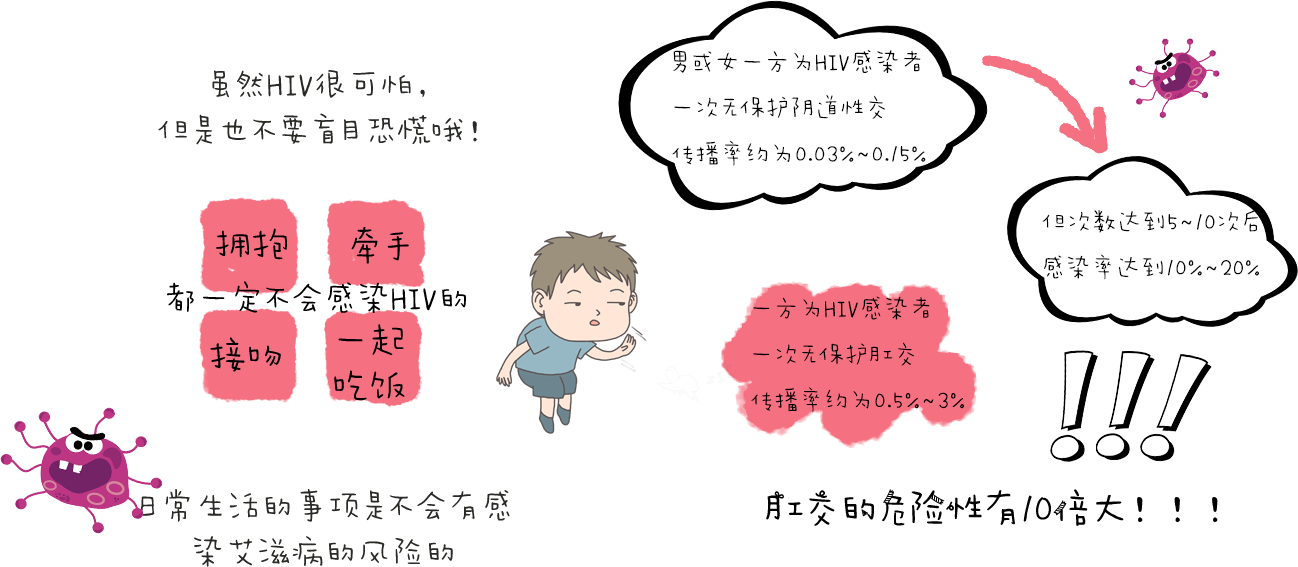
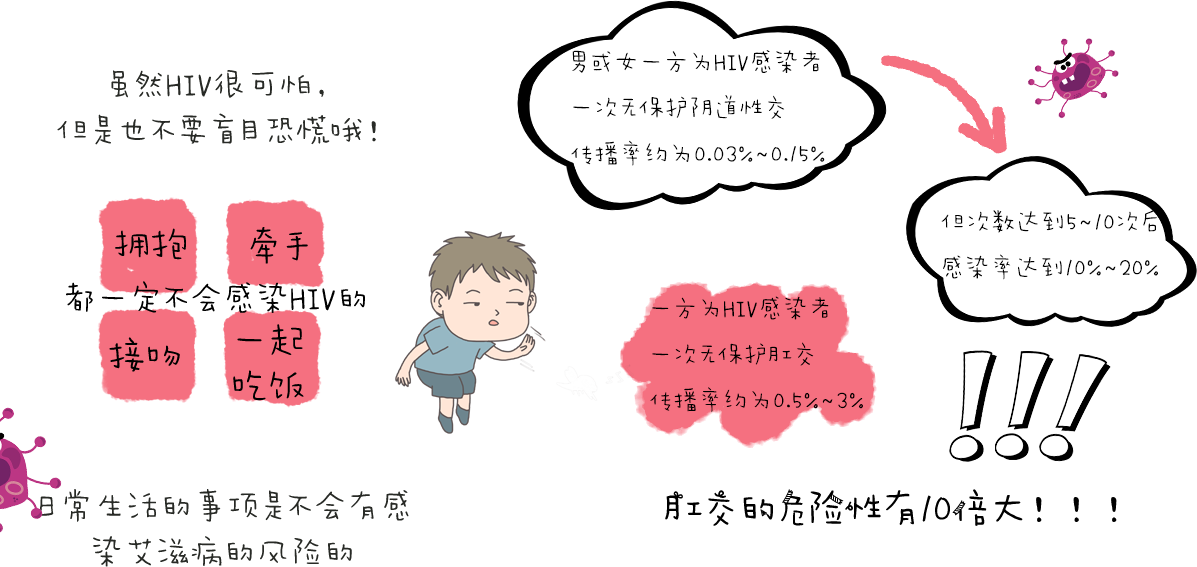
dskl

diff --git a/bookshelf/sex3.html b/bookshelf/sex3.html
@@ -35,12 +35,12 @@
 				</div>
 				<!-- some thing -->
 				<div id="my_paper">
-					<div id="png2">
-						<img src="images/sex1.png">
+					<div id="png3">
+						<img src="images/sex3.png">
 					</div>
 					
 				<div id="page_o" style="position: absolute;top: 900px;">
-					<button id="next" class="small_font">下一页</button>
+					<button id="next" class="small_font">返回书架</button>
 				</div>
 			</div>
 		</div>

diff --git a/bookshelf/sex2.html b/bookshelf/sex2.html
@@ -35,8 +35,8 @@
 				</div>
 				<!-- some thing -->
 				<div id="my_paper">
-					<div id="png">
-						<img src="images/sex1.png">
+					<div id="png2">
+						<img src="images/sex2.png">
 					</div>
 					
 				<div id="page_o" style="position: absolute;top: 900px;">

diff --git a/bookshelf/sex1.css b/bookshelf/sex1.css
@@ -96,3 +96,7 @@
 #png2{
 	padding-left: -30px;
 }
+
+#png3{
+	padding-left: -100px;
+}
